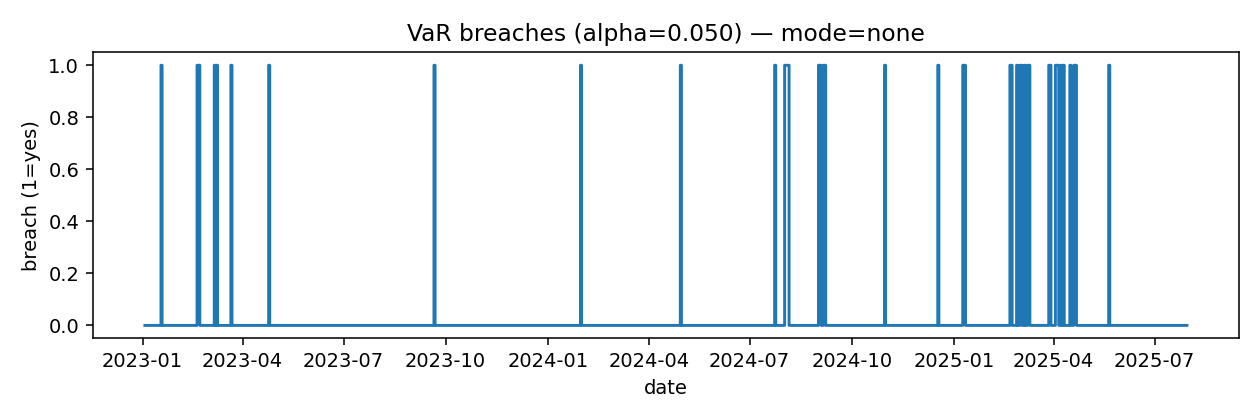
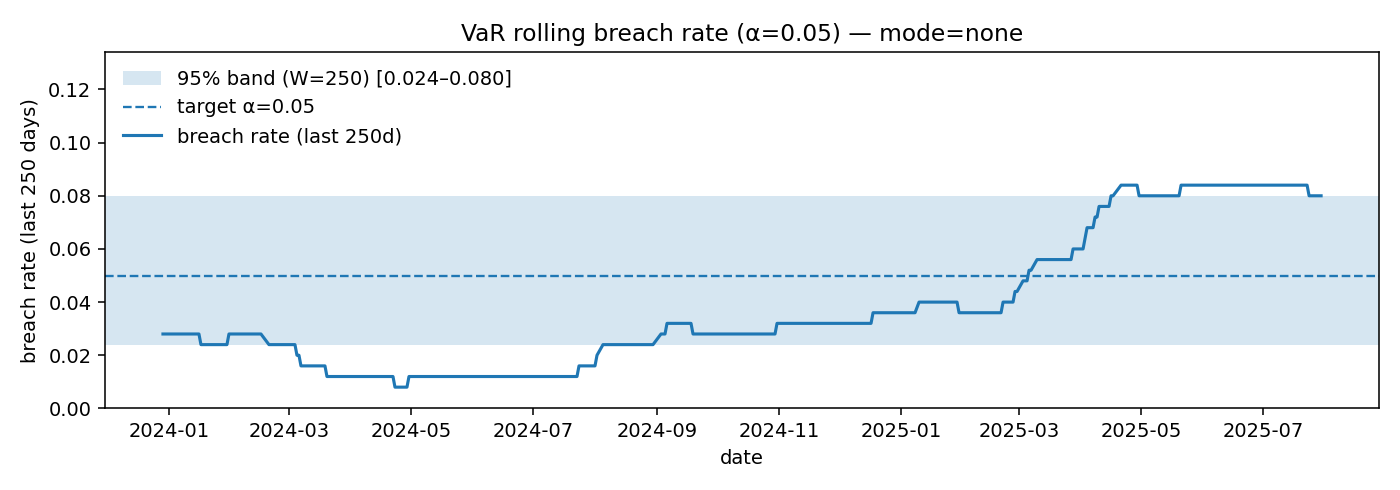
fixing fig

diff --git a/src/eval_phase4.py b/src/eval_phase4.py
@@ -205,15 +205,46 @@ def main():
     (TAB/"var_backtest.csv").write_text(out.to_csv(index=False))
 
     # plot
-    if len(df)>0:
-        import matplotlib.pyplot as plt
-        plt.figure(figsize=(9,3))
-        dates=df["date"].to_numpy(); y=np.zeros(len(df))
-        off=len(df)-len(exc_cal); y[off:]=exc_cal if off>=0 else exc_cal[-len(df):]
-        plt.plot(dates,y,drawstyle="steps-mid")
-        plt.title(f"VaR breaches (alpha={args.alpha:.3f}) — mode={mode}")
-        plt.ylabel("breach (1=yes)"); plt.xlabel("date")
-        plt.tight_layout(); plt.savefig(Path("figs")/"var_breach_timeline.png",dpi=140); plt.close()
+    # plot
+    # --- plot: rolling 250-day breach count with 95% acceptance band ---
+    # --- plot: rolling 250-day breach rate with 95% acceptance band ---
+    if len(df) > 0:
+        dates = df["date"].to_numpy()
+        # choose which series to show (use calibrated series for whatever mode you evaluated)
+        e_plot = exc_cal.astype(int)
+
+        # window size (250 if available)
+        W_plot = min(250, len(e_plot))
+        roll_count = (
+            pd.Series(e_plot, index=dates)
+            .rolling(W_plot, min_periods=W_plot)
+            .sum()
+            .dropna()
+        )
+
+        # convert to rate
+        roll_rate = roll_count / W_plot
+        lo, hi = lastn_band(args.alpha, W_plot)
+        lo_r, hi_r = lo / W_plot, hi / W_plot
+
+        fig, ax = plt.subplots(figsize=(10, 3.5))
+        # acceptance band across the whole x-range
+        ax.axhspan(lo_r, hi_r, alpha=0.18, label=f"95% band (W={W_plot}) [{lo_r:.3f}–{hi_r:.3f}]")
+        ax.axhline(args.alpha, lw=1.2, linestyle="--", label=f"target α={args.alpha:.2f}")
+
+        ax.plot(roll_rate.index, roll_rate.values, lw=1.6, label=f"breach rate (last {W_plot}d)")
+        ax.set_title(f"VaR rolling breach rate (α={args.alpha:.2f}) — mode={args.calib_mode}")
+        ax.set_ylabel(f"breach rate (last {W_plot} days)")
+        ax.set_xlabel("date")
+
+        ymax = max(float(roll_rate.max() or 0), float(hi_r))
+        ax.set_ylim(0, ymax + 0.05)
+
+        ax.legend(loc="upper left", frameon=False)
+        fig.tight_layout()
+        (Path("figs")/"var_breach_timeline.png").parent.mkdir(parents=True, exist_ok=True)
+        fig.savefig(Path("figs")/"var_breach_timeline.png", dpi=140)
+        plt.close(fig)
 
     a=args.alpha
     print(f"PatchTST VaR{int((1-a)*100)} exception_rate raw={br_raw:.4f}, {mode}={br_cal:.4f} (N_eff={int(N_cal)}, target={a:.4f})")

diff --git a/README.md b/README.md
@@ -1,11 +1,23 @@
 # PatchTST VaR/Volatility: SPY daily risk (VaR 0.95 and variance)
 
-PatchTST (quantile + variance heads) versus HAR-RV and GARCH(1,1)–t for daily SPY risk.
-Goal: forecast variance and produce a VaR at 95% (α=0.05, left tail) that meets standard back-tests with a leak-safe, reproducible pipeline.
+**Summary (Holdout 2023-01-02 → 2025-07-31)**
 
-![VaR 0.95 breach timeline](figs/var_breach_timeline.png)
+* Built a PatchTST forecaster for SPY daily returns with two heads:
 
-*Figure: Breach timeline for α=0.05. Shaded band shows the 95% Binomial acceptance range on the last 250 days.*
+  * **Quantile head** at τ=0.05 → 1-day **VaR₀.₉₅** (tail risk).
+  * **Variance head** → next-day variance forecast.
+* **VaR performance:** Exception rate **4.65%** (target 5%), **Kupiec p=0.68**, **Christoffersen p=0.61** on N=645 days.
+* **Baselines:** HAR-RV = 6.2% exceptions, GARCH(1,1)–t = 5.8%. PatchTST matches coverage and adds variance prediction in a single model.
+* **Variance results:** HAR-RV outperforms PatchTST on log-likelihood (−8.958 vs −8.976), consistent with linear baselines dominating on clean daily realized variance.
+* **Artifacts:** Full reproducibility via `scripts/reproduce.sh` → data snapshots, models, figures, CSVs, and a decision memo.
+
+<p align="center">  
+<img src="figs/var_breach_timeline.png" width="600">  
+</p>  
+
+*Figure: VaR breaches (red dots) vs 95% binomial acceptance band (gray) over the last 250 days.*
+
+---
 
 ## Headline results (holdout 2023-01-02 → 2025-07-31)
 
